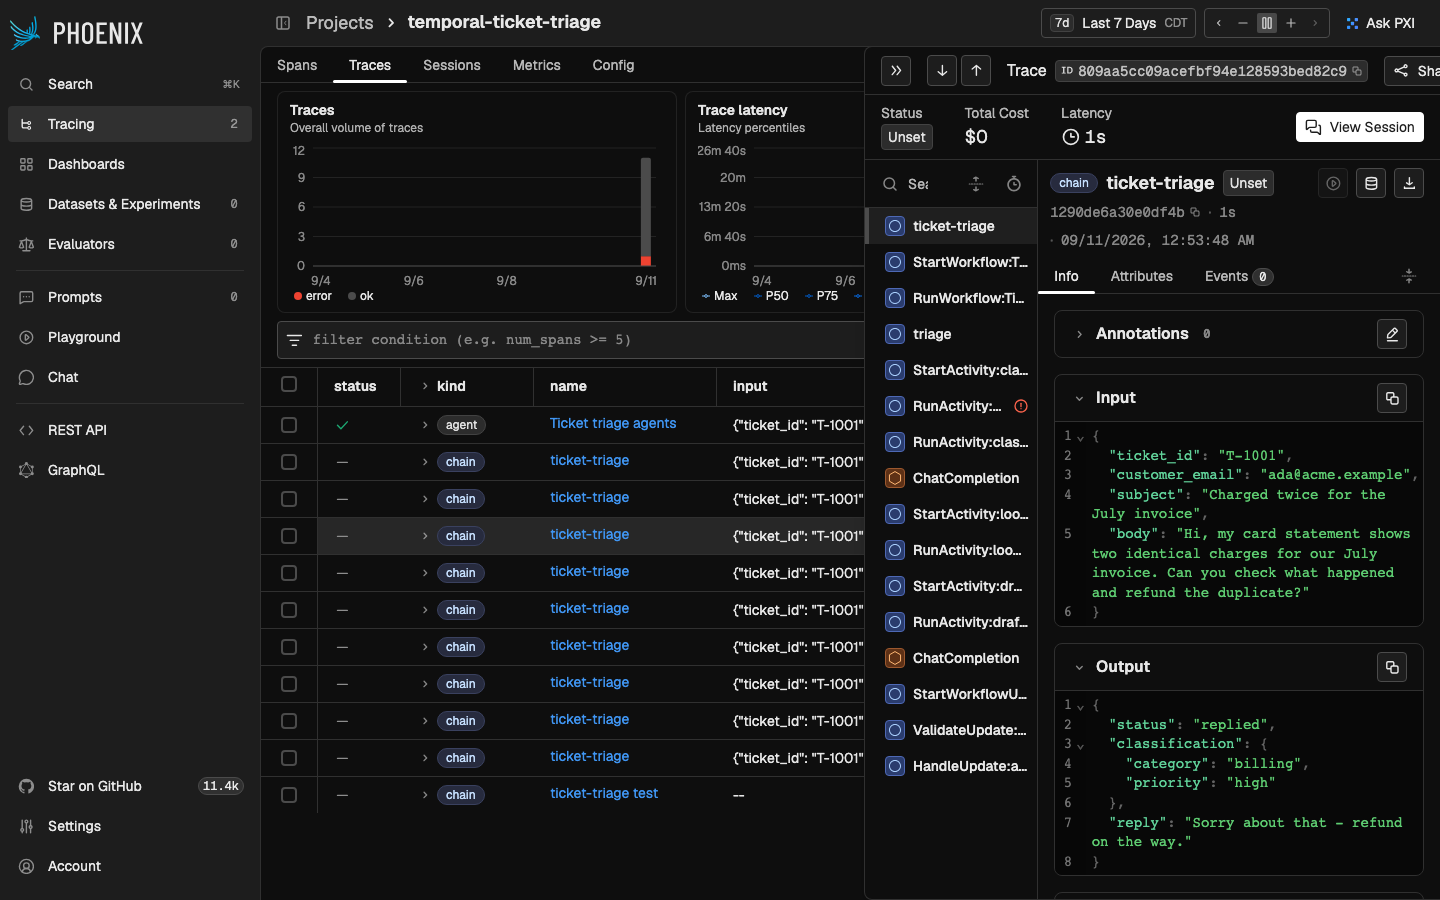
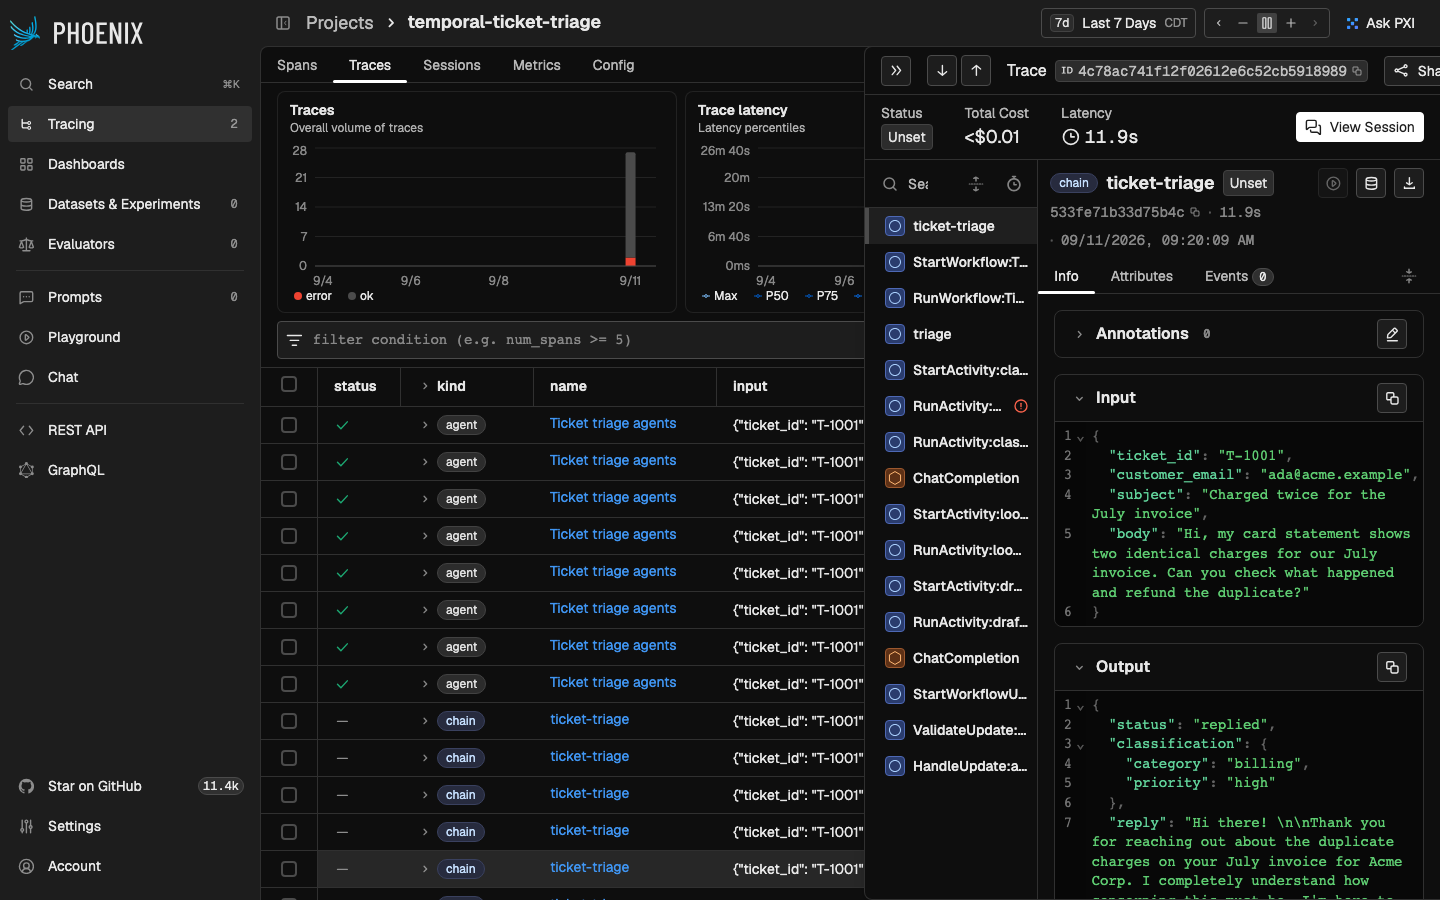
Agents scenario: two-process worker mode, orphan check in verify_trace, screenshots from live runs

diff --git a/arize_tracing/ticket_triage_agents/worker.py b/arize_tracing/ticket_triage_agents/worker.py
@@ -29,7 +29,19 @@ async def main() -> None:
         "workflow (and the agent loop) from the start of history. Traces in "
         "Arize must look identical with or without this flag.",
     )
+    parser.add_argument(
+        "--role",
+        choices=["all", "workflows", "activities"],
+        default="all",
+        help="Run workflows and activities in this process (default), or only one "
+        "of them. Until temporalio/sdk-python#1852 is fixed, a single process that "
+        "runs both exports the temporal:startActivity spans with the wrong parent, "
+        "so the tool and model-call subtrees appear detached in Arize. Running one "
+        "worker with --role workflows and another with --role activities avoids it.",
+    )
     args = parser.parse_args()
+    run_workflows = args.role in ("all", "workflows")
+    run_activities = args.role in ("all", "activities")
 
     # @@@SNIPSTART python-arize-tracing-agents-worker
     # The tracer provider must exist before the plugin is constructed.
@@ -38,20 +50,23 @@ async def main() -> None:
 
     config = ClientConfig.load_client_connect_config()
     config.setdefault("target_host", "localhost:7233")
-    client = await Client.connect(**config, plugins=[agents_plugin()])
+    # The plugin registers the model-call activity itself (unless this is a
+    # workflow-only worker).
+    client = await Client.connect(
+        **config, plugins=[agents_plugin(register_activities=run_activities)]
+    )
 
     worker = Worker(
         client,
         task_queue=TASK_QUEUE,
-        workflows=[TicketTriageAgentsWorkflow],
-        # The plugin registers the model-call activity itself.
-        activities=[lookup_account],
+        workflows=[TicketTriageAgentsWorkflow] if run_workflows else [],
+        activities=[lookup_account] if run_activities else [],
         max_cached_workflows=0 if args.replay_stress else 1000,
     )
     # @@@SNIPEND
 
     mode = "replay-stress (workflow cache disabled)" if args.replay_stress else "normal"
-    print(f"Worker started (mode={mode}), ctrl+c to exit")
+    print(f"Worker started (role={args.role}, mode={mode}), ctrl+c to exit")
     try:
         await worker.run()
     finally:

diff --git a/arize_tracing/verify_trace.py b/arize_tracing/verify_trace.py
@@ -247,9 +247,22 @@ def _verify_common(
     args: argparse.Namespace,
 ) -> None:
     # No duplicate spans (workflow replay must never re-emit spans).
-    span_ids = [s["context"]["span_id"] for s in spans]
-    if len(set(span_ids)) != len(span_ids):
+    all_ids = [s["context"]["span_id"] for s in spans]
+    if len(set(all_ids)) != len(all_ids):
         failures.append("duplicate span ids present")
+
+    # Every child points at a span that is part of the trace. A missing parent
+    # means a span was exported with the wrong parent, which Arize renders as a
+    # detached subtree.
+    span_ids = {s["context"]["span_id"] for s in spans}
+    orphans = [
+        s for s in spans if s.get("parent_id") and s["parent_id"] not in span_ids
+    ]
+    if orphans:
+        names = sorted({s["name"] for s in orphans})
+        failures.append(
+            f"{len(orphans)} span(s) reference a parent that is not in the trace: {names}"
+        )
 
     # The root carries the OpenInference trace-level attributes.
     roots = [s for s in spans if not s.get("parent_id")]

diff --git a/arize_tracing/ticket_triage_agents/plugin.py b/arize_tracing/ticket_triage_agents/plugin.py
@@ -9,7 +9,7 @@ TASK_QUEUE = "arize-ticket-triage-agents-task-queue"
 
 
 # @@@SNIPSTART python-arize-tracing-agents-plugin
-def agents_plugin() -> OpenAIAgentsPlugin:
+def agents_plugin(*, register_activities: bool = True) -> OpenAIAgentsPlugin:
     """The OpenAI Agents plugin, configured to export through OpenTelemetry.
 
     Construct it after ``setup_tracing()``: with ``use_otel_instrumentation=True``
@@ -22,6 +22,8 @@ def agents_plugin() -> OpenAIAgentsPlugin:
     return OpenAIAgentsPlugin(
         use_otel_instrumentation=True,
         add_temporal_spans=True,
+        # False for a workflow-only worker (see worker.py --role).
+        register_activities=register_activities,
         model_params=ModelActivityParameters(
             start_to_close_timeout=timedelta(seconds=60),
             retry_policy=RetryPolicy(

diff --git a/arize_tracing/ticket_triage_agents/README.md b/arize_tracing/ticket_triage_agents/README.md
@@ -14,7 +14,7 @@ the reply. Model calls run as Temporal activities.
 |---|---|
 | `plugin.py` | `OpenAIAgentsPlugin(use_otel_instrumentation=True, add_temporal_spans=True, ...)`: bridges Agents SDK tracing to OpenTelemetry through the OpenInference `openai-agents` instrumentation |
 | `workflows.py` | `TicketTriageAgentsWorkflow` — two agents, one activity tool, `approve` update handler + validator |
-| `worker.py` | Worker registering the workflow and the `lookup_account` activity; `--replay-stress` |
+| `worker.py` | Worker registering the workflow and the `lookup_account` activity; `--role workflows|activities|all`, `--replay-stress` |
 | `starter.py` | Opens the Agents SDK trace (which becomes the root AGENT span), sets the OpenInference attributes on it, starts the workflow, sends the approval; `--decline`, `--pause-before-approval N`, `--workflow-id`, `--user` |
 
 Differences from the framework-agnostic scenario:
@@ -28,17 +28,24 @@ Differences from the framework-agnostic scenario:
 - The plugin propagates trace and span IDs but not OpenTelemetry baggage, so
   `session.id` and `user.id` live on the root span (enough for Phoenix's
   Sessions view).
-- Run the starter and the worker as separate processes, as shown. The bridge
-  is Public Preview in the Temporal SDK.
+- Run the starter, a workflow worker (`--role workflows`), and an activity
+  worker (`--role activities`) as separate processes, as shown. A single
+  worker process that runs both exports the `temporal:startActivity` spans
+  with a parent that is not in the trace, so the model-call and tool subtrees
+  appear detached in Arize until
+  [temporalio/sdk-python#1852](https://github.com/temporalio/sdk-python/issues/1852)
+  is fixed. The bridge is Public Preview in the Temporal SDK.
 
 ## Run
 
 ```bash
-uv run python -m arize_tracing.ticket_triage_agents.worker
+uv run python -m arize_tracing.ticket_triage_agents.worker --role workflows
+uv run python -m arize_tracing.ticket_triage_agents.worker --role activities
 uv run python -m arize_tracing.ticket_triage_agents.starter
 uv run python -m arize_tracing.verify_trace --trace-id <printed trace id> --scenario agents
 
-uv run python -m arize_tracing.ticket_triage_agents.worker --replay-stress
+# Replay stress and the durability demo work the same way as in ticket_triage:
+uv run python -m arize_tracing.ticket_triage_agents.worker --role workflows --replay-stress
 uv run python -m arize_tracing.ticket_triage_agents.starter --pause-before-approval 20
 ```
 
@@ -46,14 +53,16 @@ uv run python -m arize_tracing.ticket_triage_agents.starter --pause-before-appro
 
 ```
 Ticket triage agents                             AGENT  (root; session, user, input, output)
-└─ temporal:startWorkflow:TicketTriageAgentsWorkflow   CHAIN
-   └─ temporal:executeWorkflow                   CHAIN
-      ├─ Agent workflow → Triage agent           AGENT
-      │  ├─ turn → temporal:startActivity → temporal:executeActivity → response   LLM
-      │  ├─ lookup_account                       TOOL
-      │  │  └─ temporal:startActivity → temporal:executeActivity
-      │  └─ turn → temporal:startActivity → temporal:executeActivity → response   LLM
-      └─ Agent workflow → Reply agent            AGENT
-         └─ turn → temporal:startActivity → temporal:executeActivity → response   LLM
+├─ temporal:startWorkflow:TicketTriageAgentsWorkflow   CHAIN
+│  └─ temporal:executeWorkflow                   CHAIN
+│     ├─ Agent workflow → Triage agent           AGENT
+│     │  ├─ turn                                 CHAIN
+│     │  │  └─ temporal:startActivity            CHAIN  (model call)
+│     │  │     ├─ temporal:executeActivity → response   LLM
+│     │  │     └─ lookup_account                 TOOL
+│     │  │        └─ temporal:startActivity → temporal:executeActivity
+│     │  └─ turn → temporal:startActivity → temporal:executeActivity → response   LLM
+│     └─ Agent workflow → Reply agent            AGENT
+│        └─ turn → temporal:startActivity → temporal:executeActivity → response   LLM
 └─ temporal:updateWorkflow                       CHAIN
 ```

diff --git a/arize_tracing/README.md b/arize_tracing/README.md
@@ -86,7 +86,9 @@ session.
 ### With the OpenAI Agents SDK
 
 ```bash
-uv run python -m arize_tracing.ticket_triage_agents.worker
+# Two worker processes (see "Known issue" below), then the starter
+uv run python -m arize_tracing.ticket_triage_agents.worker --role workflows
+uv run python -m arize_tracing.ticket_triage_agents.worker --role activities
 uv run python -m arize_tracing.ticket_triage_agents.starter
 uv run python -m arize_tracing.verify_trace --trace-id <printed trace id> --scenario agents
 ```
@@ -96,19 +98,36 @@ OpenTelemetry bridge produces the OpenInference kinds directly:
 
 ```
 Ticket triage agents                             AGENT  (root; session, user, input, output)
-└─ temporal:startWorkflow:TicketTriageAgentsWorkflow   CHAIN
-   └─ temporal:executeWorkflow                   CHAIN
-      ├─ Agent workflow → Triage agent           AGENT
-      │  ├─ turn → temporal:startActivity → temporal:executeActivity → response   LLM
-      │  ├─ lookup_account                       TOOL   (a Temporal activity as an agent tool)
-      │  │  └─ temporal:startActivity → temporal:executeActivity
-      │  └─ turn → temporal:startActivity → temporal:executeActivity → response   LLM
-      └─ Agent workflow → Reply agent            AGENT
-         └─ turn → temporal:startActivity → temporal:executeActivity → response   LLM
+├─ temporal:startWorkflow:TicketTriageAgentsWorkflow   CHAIN
+│  └─ temporal:executeWorkflow                   CHAIN
+│     ├─ Agent workflow → Triage agent           AGENT
+│     │  ├─ turn                                 CHAIN
+│     │  │  └─ temporal:startActivity            CHAIN  (model call)
+│     │  │     ├─ temporal:executeActivity → response   LLM
+│     │  │     └─ lookup_account                 TOOL   (a Temporal activity as an agent tool)
+│     │  │        └─ temporal:startActivity → temporal:executeActivity
+│     │  └─ turn → temporal:startActivity → temporal:executeActivity → response   LLM
+│     └─ Agent workflow → Reply agent            AGENT
+│        └─ turn → temporal:startActivity → temporal:executeActivity → response   LLM
 └─ temporal:updateWorkflow                       CHAIN
 ```
 
+(The tool span nests under the preceding model call's `temporal:startActivity`
+span rather than directly under the turn because the plugin leaves that span
+current in the Agents SDK scope after it finishes; see
+[temporalio/sdk-python#1855](https://github.com/temporalio/sdk-python/issues/1855).)
+
 ![Ticket triage agents trace in Phoenix](phoenix-ticket-triage-agents.png)
+
+**Known issue.** With `use_otel_instrumentation=True`, a single worker process
+that runs both the workflow and its activities exports the
+`temporal:startActivity` spans with a parent that is not in the trace, so the
+model-call and tool subtrees appear detached from the agent turns in Arize
+([temporalio/sdk-python#1852](https://github.com/temporalio/sdk-python/issues/1852)).
+`verify_trace.py` reports this as spans referencing a missing parent. Running
+the workflow and the activities in separate worker processes, as above, avoids
+it; `worker.py` without `--role` runs both in one process, which is fine for
+the framework-agnostic scenario but not for this one until the fix lands.
 
 ## How replay, retries, and restarts show up
 
@@ -212,9 +231,10 @@ the AX UI or the `ax` CLI there.
 - `OTEL_SDK_DISABLED=true` turns off export without code changes.
 - Ingestion is asynchronous; `verify_trace.py` polls until the trace is stable.
 - The OpenAI Agents SDK bridge (`use_otel_instrumentation=True`) is Public
-  Preview in the Temporal SDK. Run the starter and the worker as separate
-  processes, as the sample does, and see `quiet_otel_context_detach_errors()`
-  in `telemetry.py` for a known log-noise issue.
+  Preview in the Temporal SDK. Run the starter, the workflow worker, and the
+  activity worker as separate processes, as the sample does (see the known
+  issue above), and see `quiet_otel_context_detach_errors()` in `telemetry.py`
+  for a known log-noise issue.
 
 ## Tests
 
